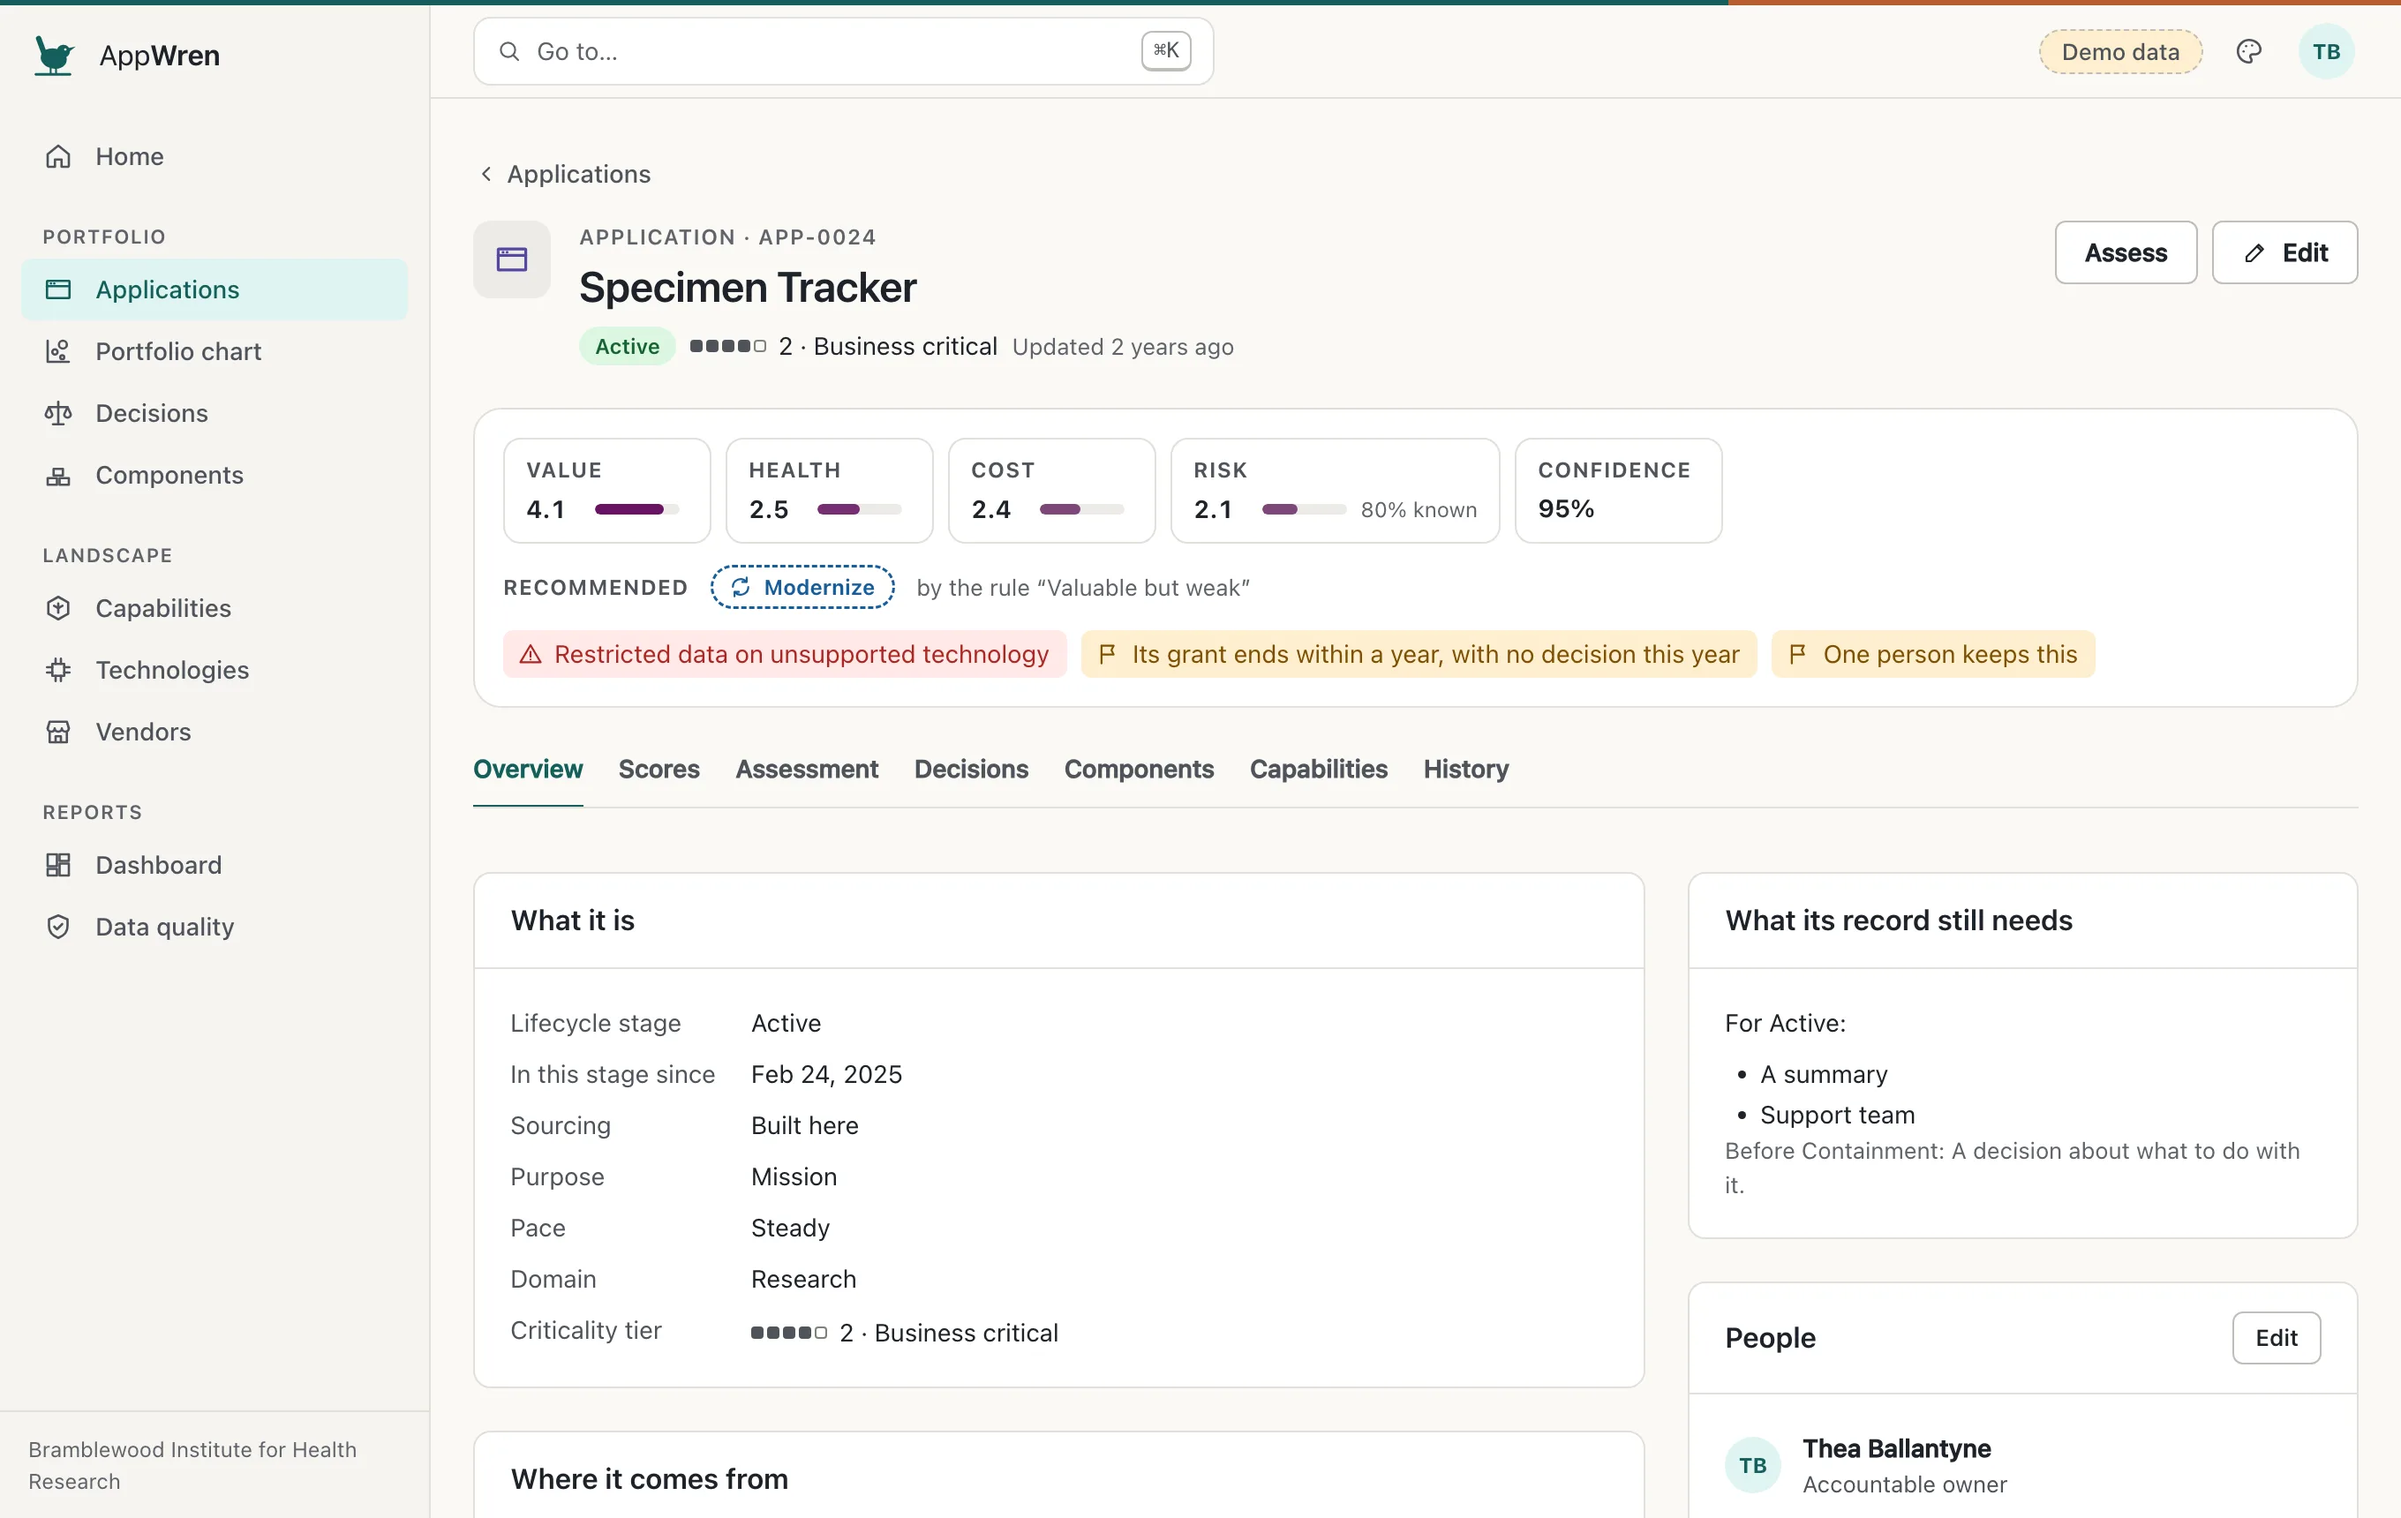
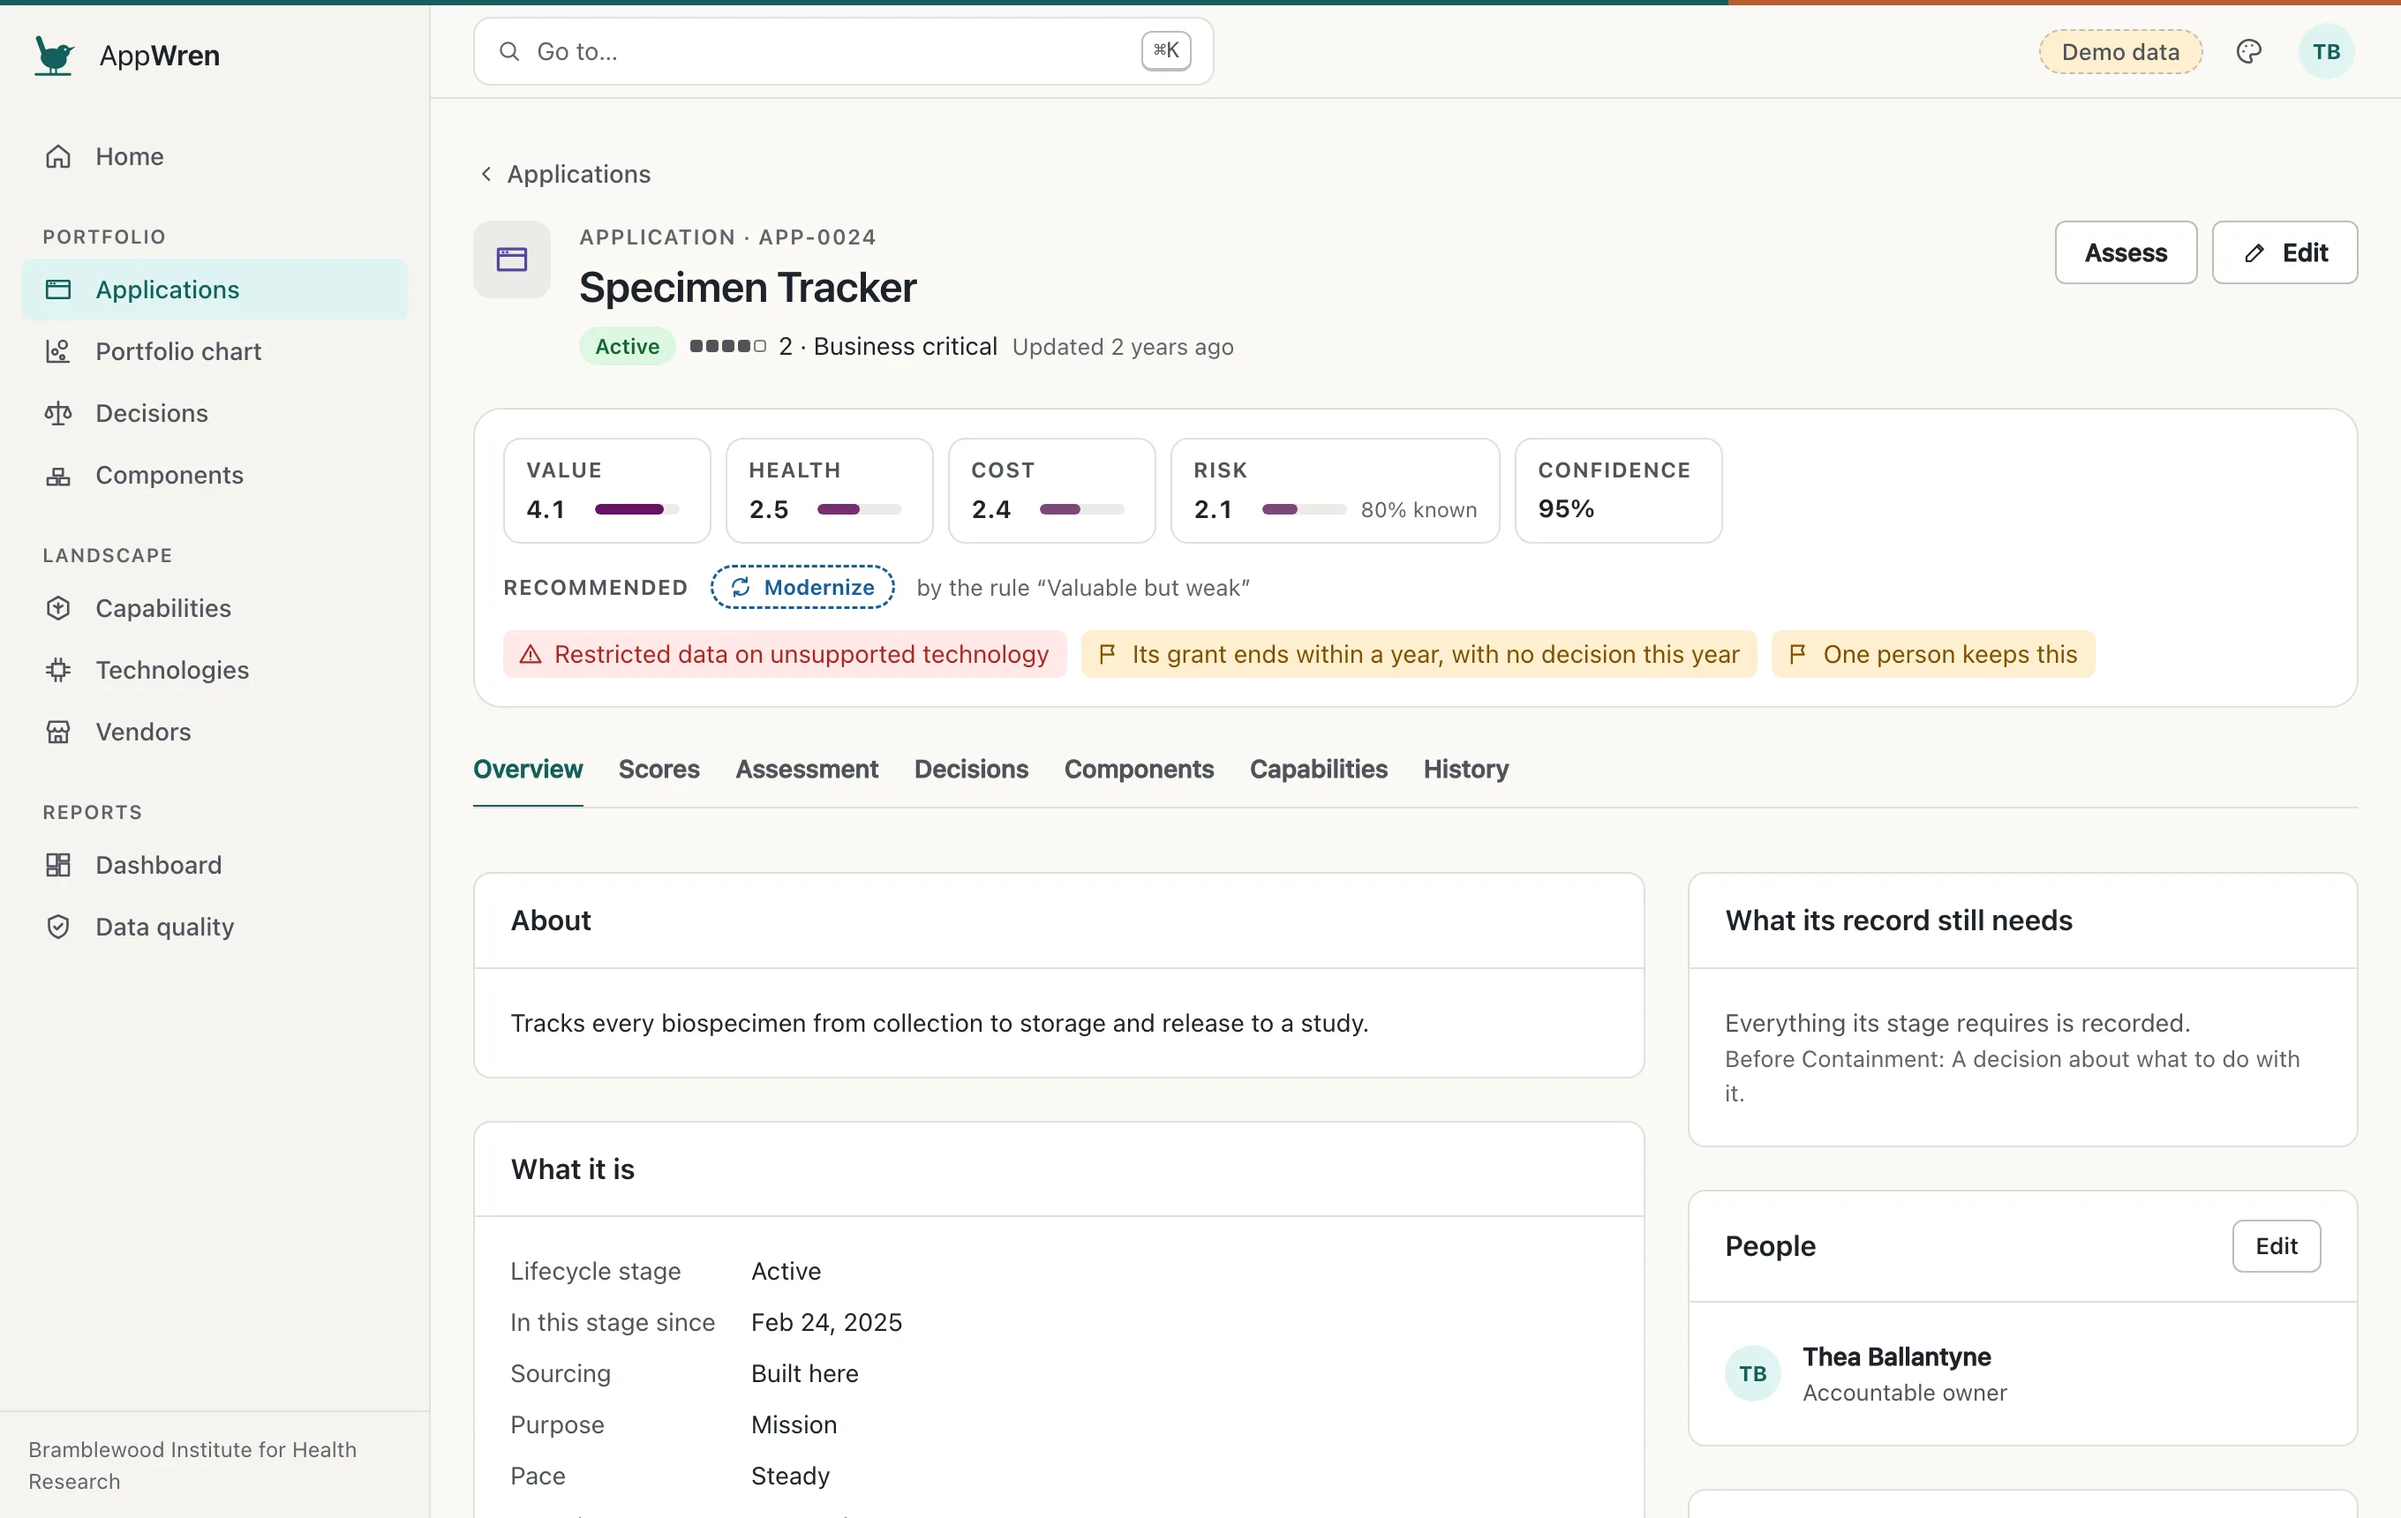
Give every demo application a summary and a support team
Every application in the demo lacked a summary, and most a support team,
so data quality counted all 106 in service as missing what their stage
requires. Storyline applications and lab tools now have a sentence written
for them, the rest say which unit uses them for what, and each has a team
that supports it. 37 still lack something, and those are the storylines:
the spreadsheet nobody finished, the applications never assessed, and the
orphans. A test holds the share under half, and the screenshots are taken
again.

diff --git a/src/appwren/demo/build.py b/src/appwren/demo/build.py
@@ -93,6 +93,7 @@ class Builder:
         self.techs: dict[str, tuple[str, str]] = {}  # key → (ref, kind)
         self.capabilities: dict[str, str] = {}  # key → ref
         self.cap_domain: dict[str, str | None] = {}
+        self.cap_name: dict[str, str] = {}
         self.apps: dict[str, str] = {}  # name → ref
         self.accountable: dict[str, int] = {}  # ref → account
         self.health: dict[str, str] = {}
@@ -315,6 +316,7 @@ class Builder:
             if row.key:
                 self.capabilities[row.key] = row.ref
                 self.cap_domain[row.key] = row.domain
+                self.cap_name[row.key] = row.name
         self.tally("capabilities", len(self.capabilities))
 
     # --- Applications ---------------------------------------------------------------------
@@ -374,6 +376,15 @@ class Builder:
             out["vendor_viability"] = r.randint(*fit)
         return out
 
+    def summary_for(self, name: str, caps: list[str], unit_code: str, more: dict[str, Any]) -> str:
+        if more.get("story") in c.STORY_SUMMARIES:
+            return c.STORY_SUMMARIES[more["story"]]
+        if more.get("lab_tool"):
+            return c.LAB_SUMMARIES[name.split(" Lab ", 1)[1]]
+        unit = next((title for code, title, *_ in c.UNITS if code == unit_code), "its unit")
+        what = " and ".join(self.cap_name[cap].lower() for cap in caps[:2])
+        return f"What {unit} uses for {what}."
+
     def add_application(self, spec: tuple, days_ago: float) -> None:
         name, caps, sourcing, unit_code, tier, users, maintainers, vendor, techs, health, more = (
             spec
@@ -383,8 +394,10 @@ class Builder:
 
         def register() -> None:
             owner = self.cast["res_steward"] if story == "worked_example" else self.owner_for(unit)
+            domain = self.cap_domain.get(caps[0]) or "administrative"
             values: dict[str, Any] = {
                 "name": name,
+                "summary": self.summary_for(name, caps, unit_code, more),
                 "org_unit_id": unit,
                 "sourcing": sourcing,
                 "tier": tier,
@@ -395,16 +408,18 @@ class Builder:
                 "pace": more.get(
                     "pace", "evolving" if sourcing == "research_software" else "steady"
                 ),
-                "domain": self.cap_domain.get(caps[0]) or "administrative",
+                "domain": domain,
                 "lifecycle": more.get("lifecycle", "active"),
                 "hosting": HOSTING.get(sourcing, self.rng.choice(["on_premises", "our_cloud"])),
                 "data_classes": more.get("data_classes", ["internal"]),
                 "annual_cost": more.get("cost", 10000),
                 "funding": more.get("funding", "operating"),
                 "go_live": self.day(-self.rng.randint(800, 4000)).isoformat(),
-                "support_unit_id": self.units["ITAPP"]
-                if unit_code.startswith(("FIN", "HR", "PA"))
-                else None,
+                # A lab keeps its own tools; research applications have a team; the rest go
+                # to the enterprise applications team.
+                "support_unit_id": unit
+                if sourcing == "research_software"
+                else self.units["ITRES" if domain == "research" else "ITAPP"],
                 **{
                     k: more[k]
                     for k in (

diff --git a/src/appwren/demo/content.py b/src/appwren/demo/content.py
@@ -313,6 +313,30 @@ UNASSESSED = [
     ("Poster Printing Queue", "communications", "COMMS"), ("Shuttle Schedule", "facilities", "FAC"),
 ]  # fmt: skip
 
+# What an application is for, in a sentence: by storyline, and by the kind of a lab's tool.
+# Every other application says which unit uses it for what.
+STORY_SUMMARIES = {
+    "worked_example": "Tracks every biospecimen from collection to storage and release to a study.",
+    "mismatch": "Books clinic appointments and rooms for research visits.",
+    "clinic_surveys": "Questionnaires patients answer on a tablet before a clinic visit.",
+    "survey_primary": "The institute's survey service: consent, participant surveys, and study data capture.",
+    "survey_secondary": "An in-house survey tool from before the survey hub, still used by a few studies.",
+    "freezer": "Watches freezer temperatures and pages whoever is on call when one drifts.",
+    "single_maintainer": "Where cohort studies run their analyses, on a shared environment one engineer keeps.",
+    "incubator": "A pilot of an electronic lab notebook with three labs.",
+    "retired": "Reports for leadership, replaced by the executive dashboards.",
+    "grant_ending": "Turns microscope images into measurements for the lab's imaging studies.",
+}
+LAB_SUMMARIES = {
+    "Sample Tracker": "Where the lab records its samples, boxes, and freezer positions.",
+    "Image Analysis": "Scripts that measure what the lab's microscope images show.",
+    "Analysis Pipeline": "The lab's pipeline from raw sequencing data to results.",
+    "Plate Reader Database": "Readings from the lab's plate reader, kept in a desktop database.",
+    "Variant Browser": "A browser for the variants the lab has called across its samples.",
+    "Cohort Dashboard": "Charts of the lab's cohort for its collaborators.",
+    "Mouse Colony Manager": "Breeding, cages, and genotypes for the lab's mouse colony.",
+}
+
 WORKED_EXAMPLE = {
     "strategic_fit": 4, "functional_fit": 3, "future_need": 4, "reliability": 3,
     "maintainability": 2, "support_effort": 2, "change_effort": 2, "compliance": None,

diff --git a/tests/test_demo.py b/tests/test_demo.py
@@ -78,6 +78,11 @@ def test_the_demo_tells_every_storyline(db: Database) -> None:
             "Space Planning",
             "Contracts Repository",
         } <= orphaned
+        # Most records are complete, so what is missing stands out; the worked example lacks
+        # nothing its stage requires.
+        in_service = [r for r in rows if r["lifecycle"] not in ("retired", "archived")]
+        assert sum(1 for r in in_service if r["missing_now"]) < len(in_service) / 2
+        assert next(r for r in rows if r["name"] == "Specimen Tracker")["missing_now"] == []
         # Not enough to say: the spreadsheet nobody assessed.
         assess = [r for r in rows if r["recommendation"] == "assess"]
         assert len(assess) >= 12

diff --git a/spec/waves/wave-1.md b/spec/waves/wave-1.md
@@ -203,3 +203,4 @@ Decisions and discoveries made during the wave are logged here, newest last.
 - **The router leaves in-page links to the browser.** The skip link was being treated as a navigation and redrew the page without moving the focus; the keyboard check found it.
 - **A demo visitor changes sample person without signing out.** The demo's sign-in needs no token from the session it replaces, as a password sign-in does not.
 - **Guides describe the screen, not the specification.** Where the two differed (how the working words a factor's source, who may hand on accountability, where JSON exports come from), the guide was changed to match what was built, and the examples were run.
+- **A demo's records are mostly complete.** Every demo application lacked a summary and most a support team, so the figure for records missing what their stage requires counted all of them and said nothing. Each now has both, and the gaps that remain are the storylines': the spreadsheet nobody finished, the applications never assessed, and the orphans. A test holds the share under half.
